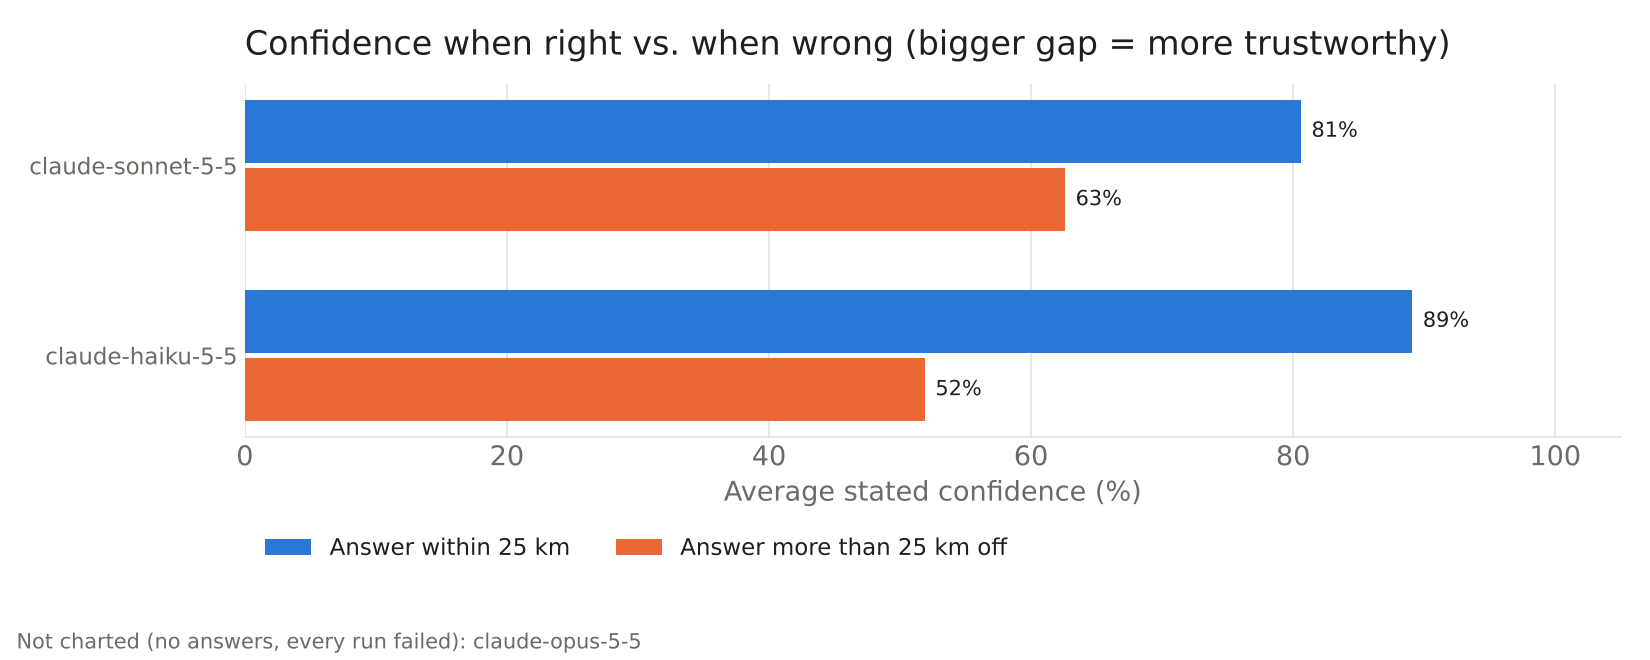
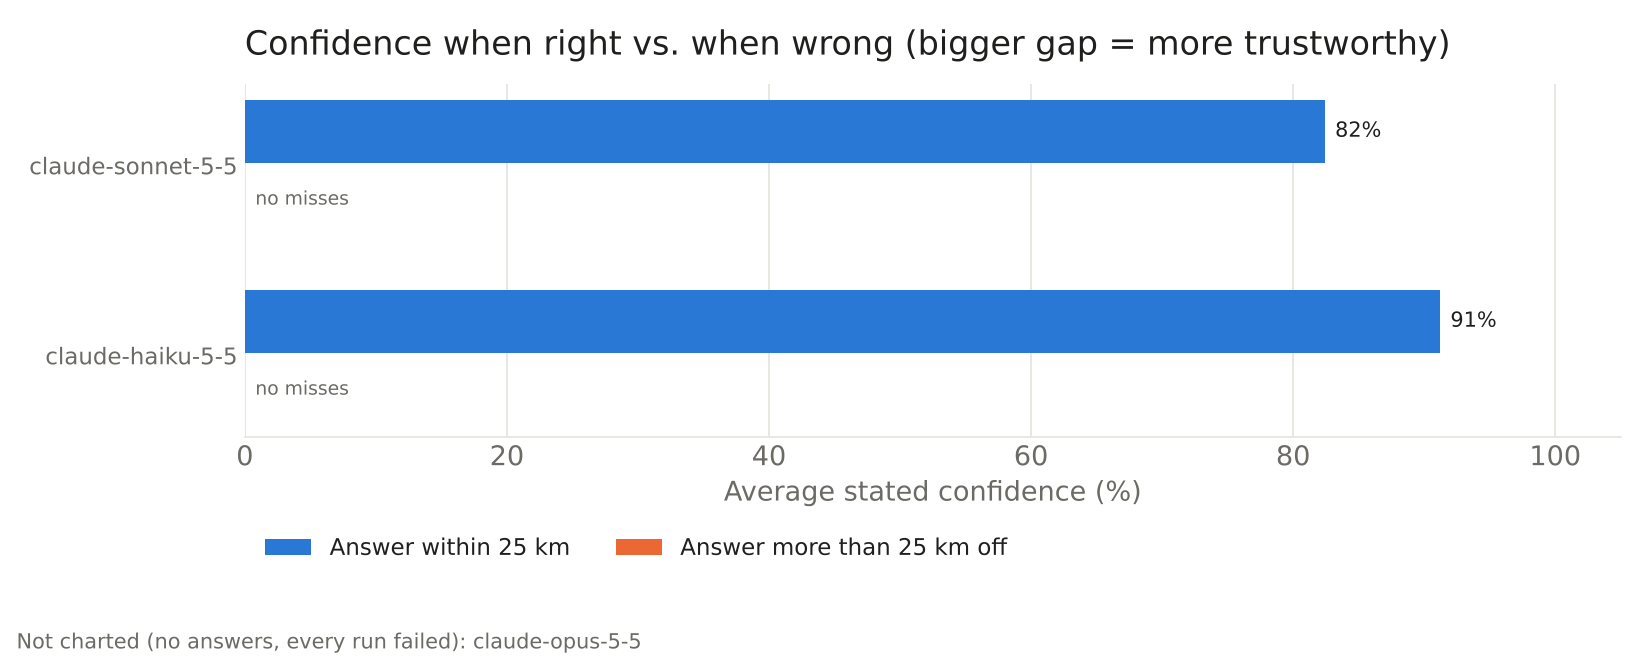
Named-place check: judge an ambiguous name by its nearest match
The landmark/place check geocoded a name and compared only the first hit
with the candidate's coordinates. "Grand Canyon South Rim" geocodes first
to a cliff ~152 km west of the village, so the model's correct coordinates
were crossed out and that far point was chosen instead (152-171 km errors
on 3 of 10 Grand Canyon answers). Use the nearest of the geocoder's hits
(already fetched, so no extra lookups) for both the place-name and the
named-landmark checks; a point far from every match is still rejected.

Rerun the Claude Grand Canyon benchmark with the fix and with photo gc_1
relabelled as Antelope Canyon (midpoint of Upper and Lower; the photo
does not show which).

Claude-Session: https://claude.ai/code/session_01QYVsSHisQA6ypfrNR5WgUo

diff --git a/utils/landmarks.py b/utils/landmarks.py
@@ -203,9 +203,25 @@ def _is_water_hit(hit: dict[str, Any]) -> bool:
     return any(w in name for w in ("lake", "reservoir", "bay", "sea", "river"))
 
 
-def _geocode_one(query: str) -> Optional[dict[str, Any]]:
-    hits = forward_geocode_candidates(query, limit=3)
-    return hits[0] if hits else None
+def _nearest_hit(
+    query: str, latitude: float, longitude: float
+) -> tuple[Optional[dict[str, Any]], Optional[float]]:
+    """The geocoder match for `query` closest to (latitude, longitude).
+
+    Names are ambiguous: "Grand Canyon South Rim" returns a cliff 150 km west
+    of the village as well as the village viewpoints. The question is "is
+    there a place with this name near here?", so the nearest match answers
+    it, not whichever one the geocoder happens to rank first.
+    """
+    best: Optional[dict[str, Any]] = None
+    best_dist: Optional[float] = None
+    for hit in forward_geocode_candidates(query, limit=3):
+        if hit.get("latitude") is None or hit.get("longitude") is None:
+            continue
+        dist = _haversine_km(latitude, longitude, hit["latitude"], hit["longitude"])
+        if best_dist is None or dist < best_dist:
+            best, best_dist = hit, dist
+    return best, best_dist
 
 
 def _empty_named() -> dict[str, Any]:
@@ -237,11 +253,8 @@ def verify_named_and_water(
 
     # 1. Does the candidate's own name actually live near these coordinates?
     if place_name and _looks_like_named_feature(place_name):
-        geo = _geocode_one(place_name)
-        if geo and geo.get("latitude") is not None:
-            dist = _haversine_km(
-                latitude, longitude, geo["latitude"], geo["longitude"]
-            )
+        geo, dist = _nearest_hit(place_name, latitude, longitude)
+        if geo is not None and dist is not None:
             report["place_distance_km"] = round(dist, 1)
             kind = (geo.get("osm_type") or geo.get("addresstype") or "").lower()
             specific = kind in _SPECIFIC_TYPES or _looks_like_named_feature(place_name)
@@ -261,10 +274,9 @@ def verify_named_and_water(
     landmarks = extract_named_features(vision)
     matched: list[dict[str, Any]] = []
     for name in landmarks:
-        geo = _geocode_one(name)
-        if not geo or geo.get("latitude") is None:
+        geo, dist = _nearest_hit(name, latitude, longitude)
+        if geo is None or dist is None:
             continue
-        dist = _haversine_km(latitude, longitude, geo["latitude"], geo["longitude"])
         if dist <= LANDMARK_MATCH_KM:
             matched.append(
                 {

diff --git a/tests/test_landmarks.py b/tests/test_landmarks.py
@@ -1,0 +1,49 @@
+"""Named-place check: an ambiguous name is judged by its nearest match.
+
+Run: python -m unittest discover -s tests
+"""
+
+from __future__ import annotations
+
+import sys
+import unittest
+from pathlib import Path
+from unittest import mock
+
+sys.path.insert(0, str(Path(__file__).resolve().parent.parent))
+
+from utils import landmarks  # noqa: E402
+
+VILLAGE = (36.0544, -112.1401)  # Grand Canyon Village, South Rim
+# Real geocoder answers for "Grand Canyon South Rim": a cliff ~152 km west
+# ranks first; the village viewpoints come second and third.
+SOUTH_RIM_HITS = [
+    {"name": "Grand Canyon South Rim", "latitude": 36.025454, "longitude": -113.832114, "addresstype": "cliff"},
+    {"name": "South Rim", "latitude": 36.061378, "longitude": -112.116285, "addresstype": "locality"},
+    {"name": "Grand Canyon South Rim", "latitude": 36.065764, "longitude": -112.11798, "addresstype": "tourism"},
+]
+
+
+def check(lat, lon, hits, name="Grand Canyon South Rim"):
+    with mock.patch.object(landmarks, "forward_geocode_candidates", return_value=hits), \
+            mock.patch.object(landmarks, "search_nearby", return_value=[]):
+        return landmarks.verify_named_and_water(lat, lon, None, [], place_name=name)
+
+
+class NamedPlaceCheck(unittest.TestCase):
+    def test_correct_point_kept_when_first_hit_is_elsewhere(self):
+        report = check(*VILLAGE, SOUTH_RIM_HITS)
+        self.assertEqual(report["place_status"], "matched")
+        self.assertLess(report["place_distance_km"], 5)
+
+    def test_point_far_from_every_match_is_still_rejected(self):
+        report = check(47.6101, -122.2015, SOUTH_RIM_HITS)  # Bellevue, WA
+        self.assertEqual(report["place_status"], "missed")
+
+    def test_single_far_match_is_rejected(self):
+        report = check(*VILLAGE, SOUTH_RIM_HITS[:1])
+        self.assertEqual(report["place_status"], "missed")
+
+
+if __name__ == "__main__":
+    unittest.main()
